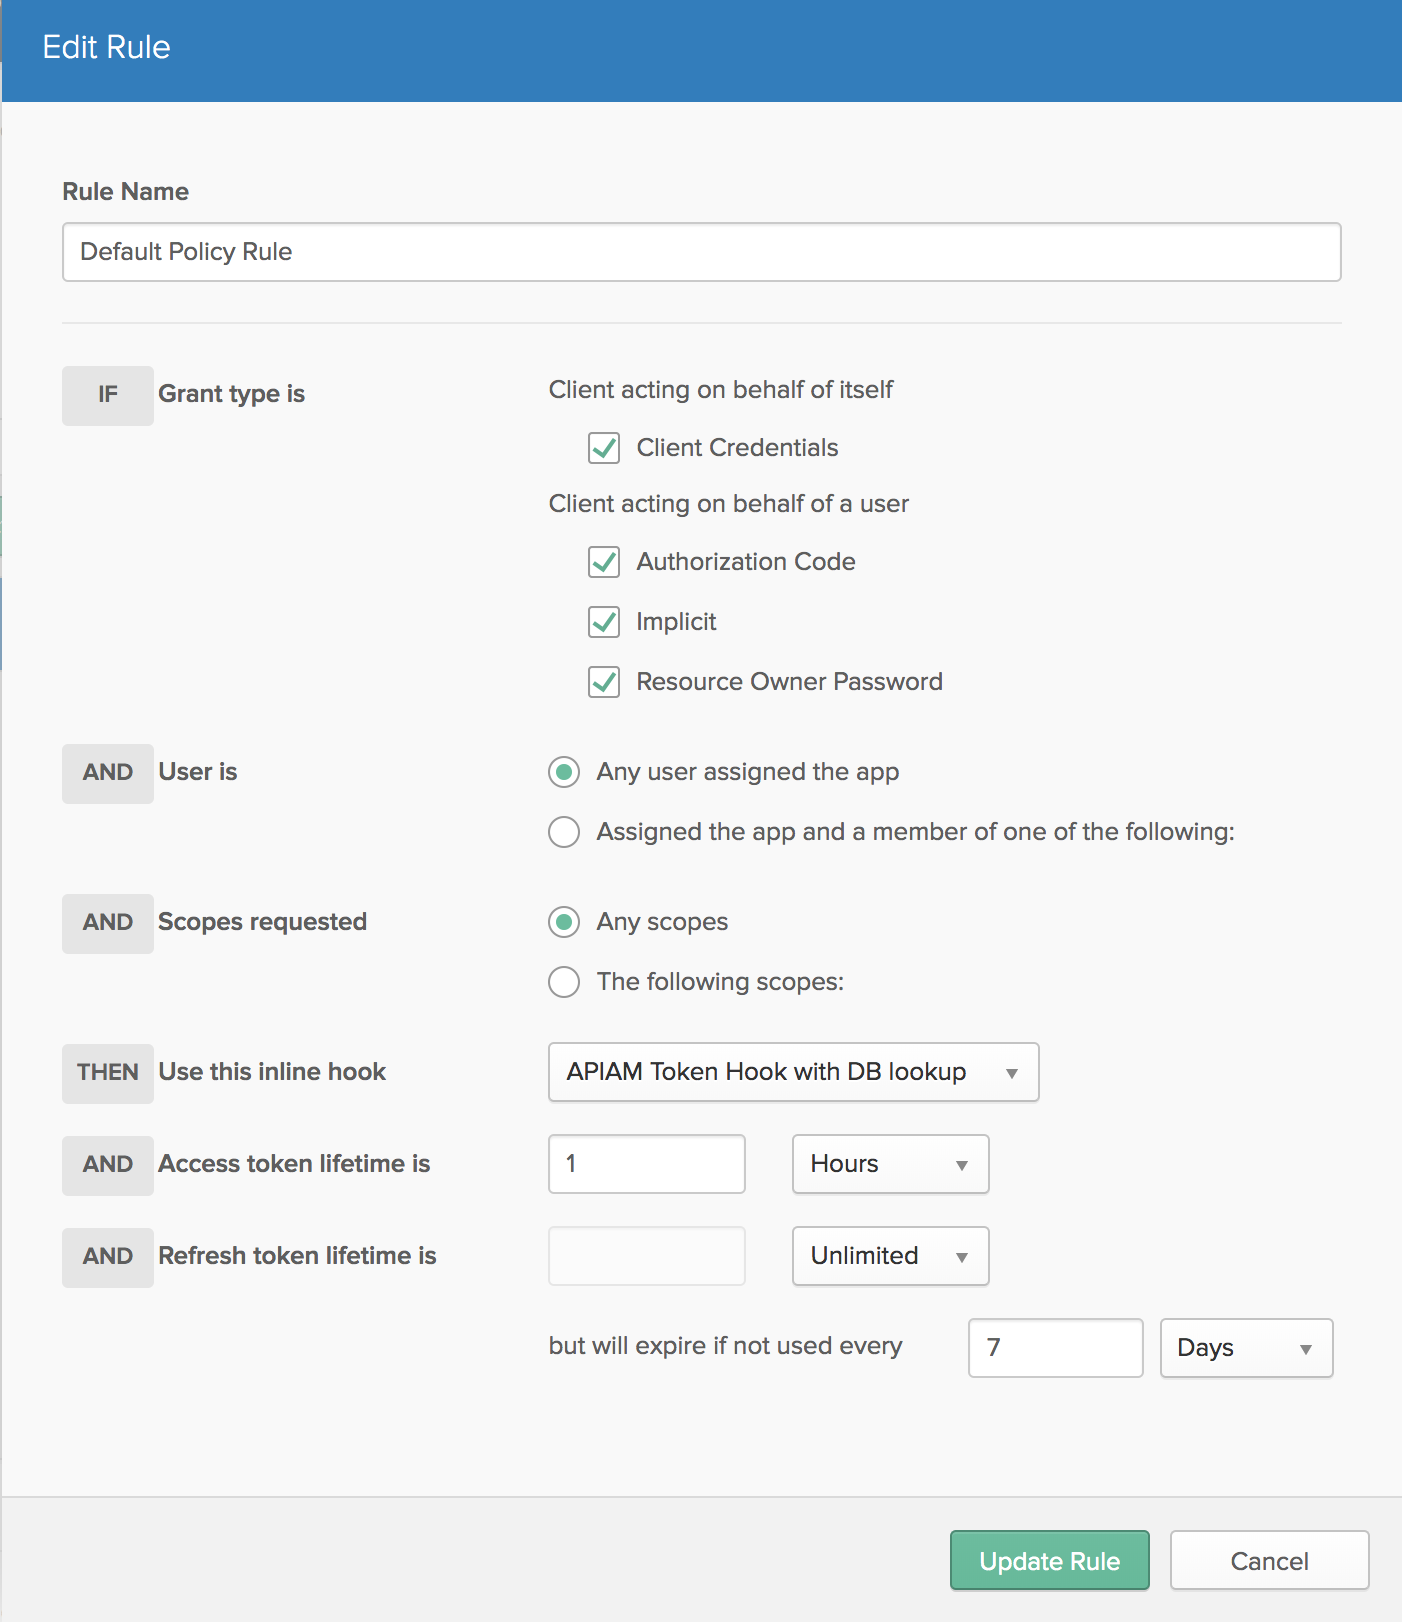
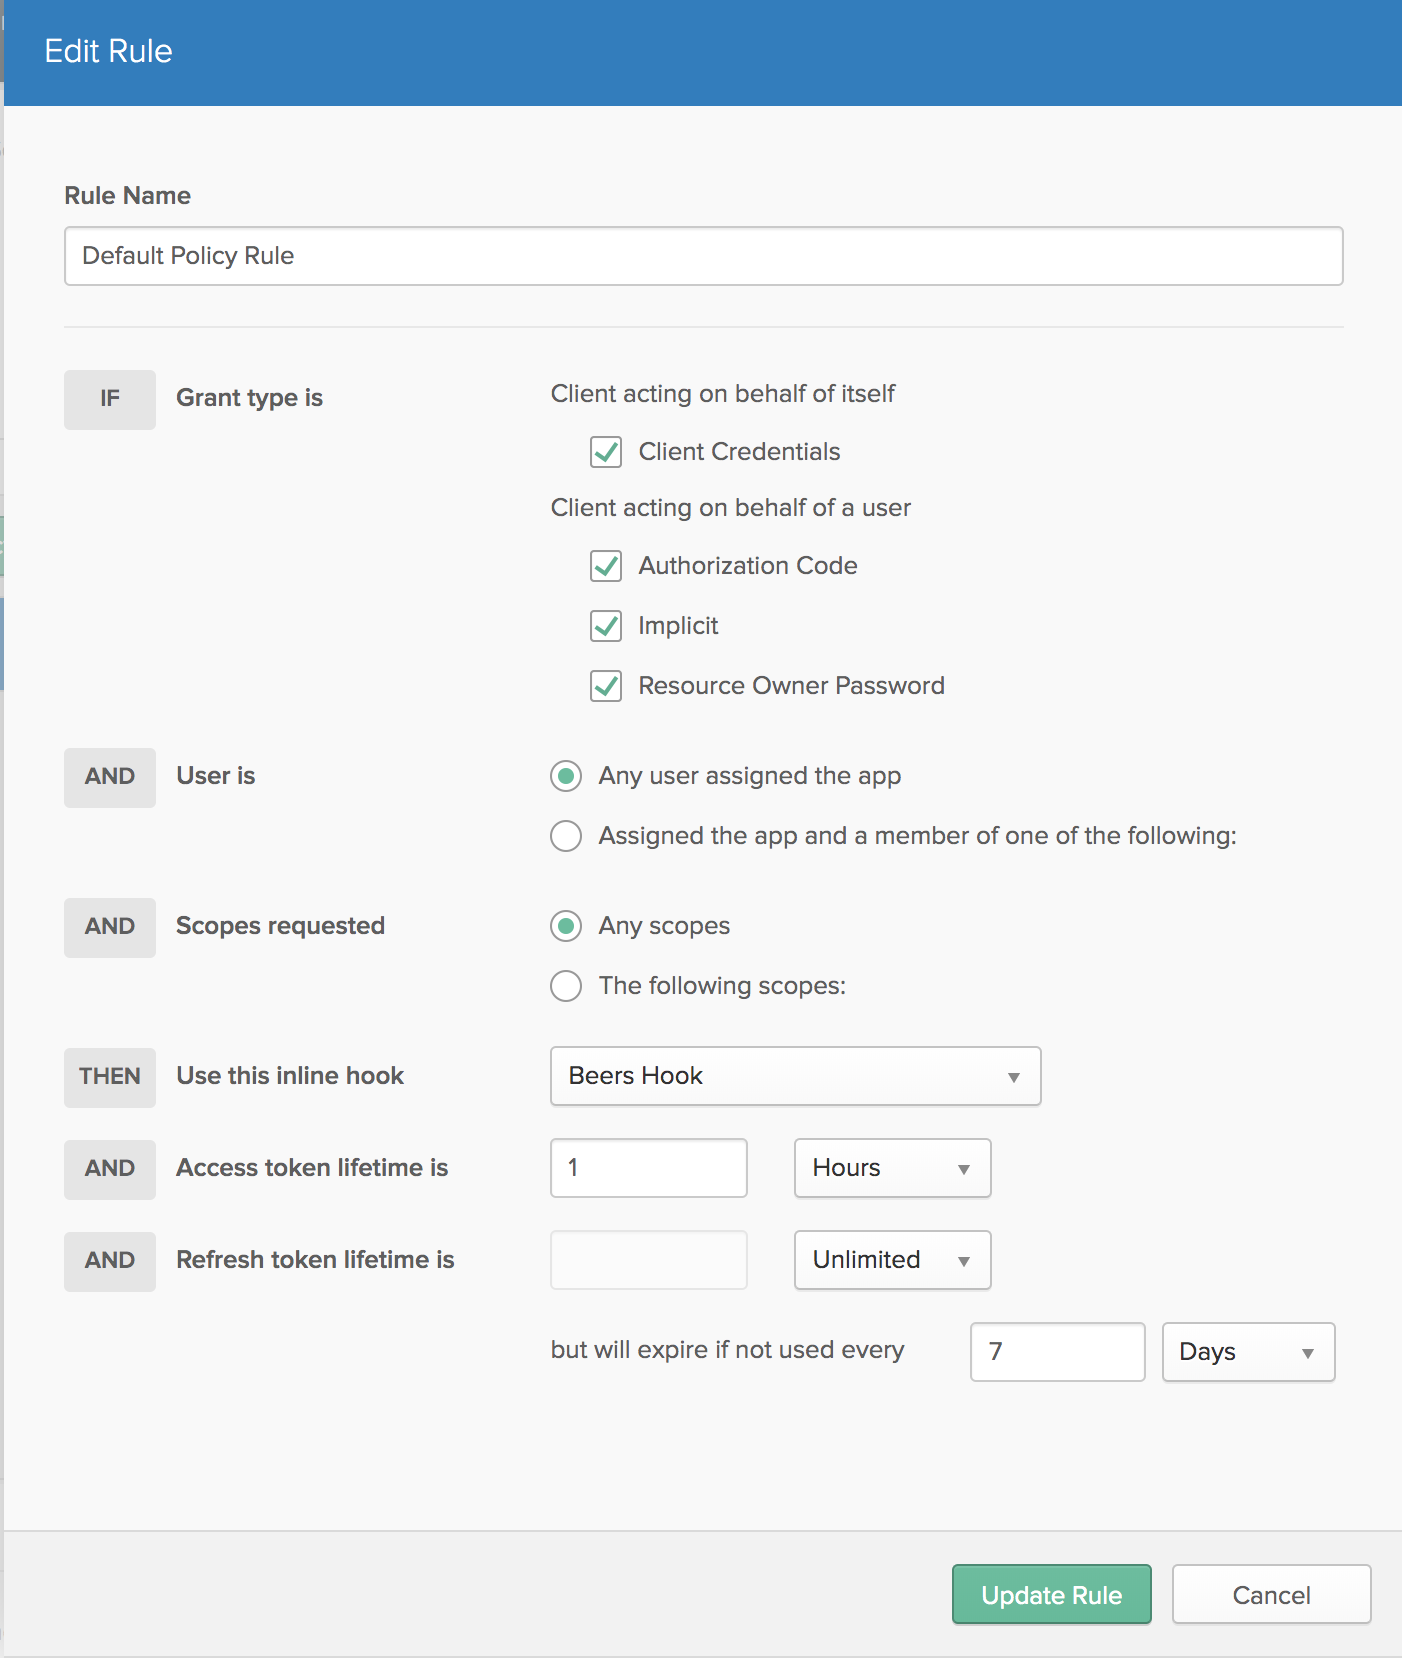
updated hooks post

diff --git a/_source/_posts/2019-12-23-okta-token-hooks.md b/_source/_posts/2019-12-23-okta-token-hooks.md
@@ -1,0 +1,377 @@
+---
+layout: blog_post
+title: "Use Okta Token Hooks to Supercharge OpenID Connect"
+author: dogeared
+description: ""
+tags: [ oauth, security, oidc, spring boot, spring security, webhooks, hooks ]
+tweets:
+- ""
+- ""
+- ""
+image: blog/featured/okta-java-short-skew.jpg
+---
+
+OpenID Connect (OIDC) and OAuth 2.0 are already recognized as a powerful way to incorporate authentication and authorization into modern web applications.
+
+Okta has enhanced the capabilities of these standards by introducing its Inline Hooks feature. There are a number of different types of inline hooks that Okta supports. In this post, I focus on hooks that allow you to patch information into the tokens you get back from okta via OIDC and OAuth.
+
+You'll first set up an OIDC application in Okta and be able to see the types of tokens you get back. Then, you'll configure a Spring Boot API app that allows you to register your favorite beers (this is based on [previous post](https://developer.okta.com/blog/2018/12/03/bootiful-spring-boot-java-vue-typescript) from my friend and colleague, Matt Raible, who is really into beers). This Spring Boot app also has API endpoints to register token hooks with Okta and to service token patch requests from Okta. Finally, you'll see that your favorite beers are now included in the payload of a token thanks to the hooks you registered.
+
+To get ready for the hands-on parts of this post, set yourself up with the following:
+
+* Create a free Okta developer org at [https://developer.okta.com/signup/](https://developer.okta.com/signup/)
+* Install [HTTPie](https://httpie.org), a modern curl replacement for interacting with API endpoints later
+* Install [ngrok](https://ngrok.com/), an app that allows public access to a locally running server
+* Optional: Create a free Heroku account at [https://signup.heroku.com/](https://signup.heroku.com/)
+
+To start, let's take a step back and introduce OIDC and OAuth.
+
+## Three Minute Overview of OpenID Connect and OAuth 2.0
+
+In the beginning there were siloed web sites that didn't talk to each other, and it was sad.
+
+Sites like Yelp started wanting access to the contact information you had in your Google Contacts. So, Yelp naturally collected your Google username and password so that it could access your contacts. You gave Yelp your permission, so this was all good, Yes? No! With your username and password, Yelp could access your email, your docs - everything you had in Google - not just your contacts. And, worse, Yelp had to store your password in a way that it could use it in plaintext and there was no standard way to revoke your consent to Yelp to access your Google account.
+
+We needed an authorization framework that would allow you to grant access to certain information without you giving up your password. Cue OAuth.
+
+Three revisions later, we're at OAuth 2.0 (there was 1.0 and 1.0a before it) and all's right with the world. Now, an application like Yelp (a `Client Application`) can request an `Access Token` from a service like Google (an `Authorization Server`). You (the `Resource Owner`) log into Google with your credentials and give your `Consent` to Yelp to access your contacts (and only your contacts). `Access Token` in hand, Yelp makes a request of the Google Contacts API (the `Resource Server`) and gets your contacts. Yelp never sees your password and never has access to anything more than you've consented to. And, you can withdraw your consent at any time.
+
+In this new world of consent and authorization, only one thing was missing: identity. Cue OpenID Connect. OIDC is a thin layer on top of OAuth 2.0 that introduces a new type of token: the Identity Token. Encoded within these cryptographically signed tokens in [JWT](https://developer.okta.com/docs/api/resources/oidc#access-token) format, is information about the authenticated user. This opened the door to a new level of interoperability and Single SignOn.
+
+OAuth (and by extension OIDC) use a number of defined `Flows` to manage the interactions between the `Client App`, the `Authorization Server` and the `Resource Server`. In this post, you'll focus on the `Authorization Code Flow`. This flow is meant to be kicked off from your browser and goes like this:
+
+1. Yelp wants access to your contacts. It presents a button to link your Google Contacts.
+2. When you click the button, you're redirected to Google where you login with your username and password (if you're not already logged in).
+3. Google shows you a screen telling you that Yelp would like read-only access to your contacts.
+4. Once you give your consent, Google redirects back to Yelp, via your browser, with a temporary code (called an authorization code)
+5. Using this code, Yelp contacts Google to trade it for an Access Token
+6. Google validates the code and if all checks out, issues an Access Token with limited capabilities (read-only access to your contacts) to Yelp
+7. Yelp then presents the Access Token to the Google Contacts API
+8. Google Contacts API validates the token and, if the request matches the capabilities identified by the token, returns your contact list to Yelp
+
+## Set Up Your Okta Org for OIDC & OAuth 2.0
+
+In this section, you're going to create an OpenID Connect application in Okta. Then, you'll exercise the OIDC application using a little OIDC playground app I created on Heroku. No coding needed! (That will come later).
+
+After logging in to your Okta org, navigate to **Applications** from the top level menu. Click: **Add Application**. Click the third box over labeled **Web** and click **Next**.
+
+Enter the following:
+
+| field | value |
+|-------|-------|
+| Name  | OIDC Beers |
+| Login redirect URIs | https://okta-oidc-fun.herokuapp.com/flow_result |
+| Grant type allowed | Check *Authorization Code* and *Implicit (Hybrid)* |
+
+{% img blog/token-hooks/oidc_settings.png alt:"oidc settings" width:"800" %}{: .center-image }
+
+Click **Done**.
+
+**Note:** Current best guidance for OAuth 2.0 (as outlined [here](https://tools.ietf.org/html/draft-ietf-oauth-browser-based-apps-04)) is to NOT use the implicit flow. We are using it here for demonstration purposes.
+
+Scroll down and copy the `Client ID` and `Client secret` values. You'll need these later.
+
+### OIDC Fun on Heroku
+
+I created an OIDC playground application to be able to exercise the different flows available. This will come in handy to see the OIDC app you just created in action.
+
+Navigate over to [https://okta-oidc-fun.herokuapp.com](https://okta-oidc-fun.herokuapp.com)
+
+You'll see a page with a form and some toggle buttons. Initially, it's set to point to my Okta org. But, you can change it to your Okta org by filling in the form.
+
+Update the values according to the following:
+
+| field | value |
+|-------|-------|
+| Okta Org | the fully qualified domain for your okta org (NO https://) |
+| Authorization Server ID | default |
+| OIDC Client ID | The Client ID you copied when you created the OIDC app |
+| response_type | DESELECT *code*, Select *id_token* and *token* |
+
+{% img blog/token-hooks/oidc_playground.png alt:"oidc playground" width:"800" %}{: .center-image }
+
+Scroll down and click the link. A new tab will launch where you can authenticate to your Okta org. Then, you'll be redirected back where you'll see an ID Token and an Access Token. Click *Validate ID Token* and you'll see the payload encoded into that token.
+
+You've now seen the kinds of tokens your OpenID Connect app in Okta can generate.
+
+In the rest of this post, you'll see how you can create a hook that will add custom claims to the ID Token. This happens in-flight, but before the ID Token is signed. This means that you can still safely validate the cryptographic signature.
+
+Leave this browser tab open. You'll make use of the access token in just a little bit.
+
+## Set Up the Favorite Beers API Application
+
+Go and grab the source code for this post from [GitHub](https://github.com/oktadeveloper/okta-token-hooks-example).
+
+This is a Spring Boot application which uses the Okta Spring Boot Starter for easy integration with OpenID Connect and OAuth 2.0.
+
+It uses the [H2](https://www.h2database.com/html/main.html) in memory database and [Spring Data JPA](https://spring.io/projects/spring-data-jpa) for easy object-relational mapping. It also uses the excellent [Lombok](https://projectlombok.org/) project because - Who likes to write getters and setters?
+
+The application has these features:
+
+* API to indicate your favorite beers
+* API to handle an incoming hook request from Okta and return an id token patch response
+
+In the *src/main/resources* folder, you'll see the `application.sample.yml` file. Copy that over to `application.yml` in the same folder.
+
+You'll need to customize the `application.yml` file with the values you've collected from the set up we did above. This includes the *issuer*, *clientId* and *clientSecret*. You can also optionally change the `id` and `password` values to anything you want. These values are used later with the hooks api. Once you have these set, you can run the app like so:
+
+```bash
+./mvnw spring-boot:run
+```
+
+**Note:** You'll need Java 11 or higher to run this example. If you're on Mac, I recommend [SDKMAN](https://sdkman.io/) to manage java versions.
+
+After the app starts, you'll see output to indicate that the H2 in-memory database has been primed with some beers:
+
+```
+Beer(id=1, name=Kentucky Brunch Brand Stout)
+Beer(id=2, name=Marshmallow Handjee)
+Beer(id=3, name=Barrel-Aged Abraxas)
+Beer(id=4, name=Hunahpu's Imperial Stout)
+Beer(id=5, name=King Julius)
+Beer(id=6, name=Heady Topper)
+Beer(id=7, name=Budweiser)
+Beer(id=8, name=Coors Light)
+Beer(id=9, name=PBR)
+```
+
+### Exercise the Beers Application
+
+You're now going to use the Beers API to add your favorite beer. But, all the api endpoints are protected with OIDC. This is where your access token from earlier comes in. 
+
+Execute the following command to add a beer to your list of favs:
+
+```bash
+http \
+localhost:8080/api/add-beer \
+name=Heineken \
+Authorization:"Bearer <your access token>"
+```
+
+If all goes well, you'll get a response like this:
+
+```json
+HTTP/1.1 200
+...
+
+[
+    { "id": 10, "name": "Heineken" }
+]
+```
+
+The app has both created a new beer entry and added it to your list of favorites.
+
+**NOTE:** Since the application uses an in-memory database, if you restart the app, you'll need to re-add your favorite beers using this api.
+
+Next up, you'll setup the inline hook that will add the `beers` claim to your ID Token on the fly.
+
+## Get Your Favorite Beers Patched into Your ID Token
+
+In order to make use of your hooks processing api, Okta needs to be able to make calls to it over the public Internet. In "real life", you'd deploy your application somewhere and set it up so that Okta could interact with it.
+
+For demonstration purposes, you're going to use the [ngrok]() service, which issues you a unique, publicly addressable domain that's connected to your locally running Spring Boot application.
+
+Start by issuing this command in a separate terminal tab:
+
+```bash
+ngrok http 8080
+```
+
+You'll see output like this:
+
+```bash
+ngrok by @inconshreveable                                                                                                                                                                     (Ctrl+C to quit)
+
+Session Status                online
+Session Expires               6 hours, 30 minutes
+Version                       2.3.29
+Region                        United States (us)
+Web Interface                 http://127.0.0.1:4040
+Forwarding                    http://e3fc9a95.ngrok.io -> http://localhost:8080
+Forwarding                    https://e3fc9a95.ngrok.io -> http://localhost:8080
+
+Connections                   ttl     opn     rt1     rt5     p50     p90
+                              0       0       0.00    0.00    0.00    0.00
+```
+
+Copy the https link (`https://e3fc9a95.ngrok.io` in my case) as we'll need it soon.
+
+### Setup Okta Inline Hooks
+
+The publicly accessible (thanks to ngrok) Spring Boot app you have running is all setup to receive hook requests from Okta. But, your Okta org isn't ready for it yet.
+
+First, you need to register the inline token hook with Okta.
+
+From you Okta org's admin console, navigate to: **Workflow > Inline Hooks**. Click: **Add Inline Hook > Token**.
+
+Enter the following into the form and then click **Save**:
+
+| Field | Value |
+|-------|-------|
+| Name  | Beers Hook |
+| URL   | {your ngrok url}/api/hooks/apiam |
+| Authentication field | Authorization |
+| Authentication secret | Basic bWVAZXhhbXBsZS5jb206d2hhdGV2cw== |
+
+The `Authentication field` is the header that Okta will use to provide authentication to your hook. The `Authentication secret` is the value that will be sent in the Authorization header.
+
+**Note:** The Authentication secret value is found in the `application.yml` file. If you changed the hooks id and password values, you'll need to recompute the basic auth string and have that value reflected in the settings above.
+
+{% img blog/token-hooks/okta-hooks-config.png alt:"token hooks config" width:"800" %}{: .center-image }
+
+The hook is now created in your okta org.
+
+The Spring Boot application has basic authentication enabled on the hooks endpoints via `WebSecurityConfiguration.java`:
+
+```java
+@EnableWebSecurity
+public class WebSecurityConfiguration {
+
+
+    @Value("#{ @environment['okta.hooks.id'] }")
+    private String hooksId;
+
+    @Value("#{ @environment['okta.hooks.password'] }")
+    private String hooksPassword;
+
+    @Autowired
+    public void configureGlobal(AuthenticationManagerBuilder auth) throws Exception {
+        auth.inMemoryAuthentication()
+            .withUser(hooksId).password(passwordEncoder().encode(hooksPassword))
+            .authorities("ROLE_USER");
+    }
+
+    @Bean
+    public PasswordEncoder passwordEncoder() {
+        return new BCryptPasswordEncoder();
+    }
+
+    @Configuration
+    @Order(1)
+    public static class HooksConfiguration extends WebSecurityConfigurerAdapter {
+
+        @Override
+        public void configure(HttpSecurity http) throws Exception {
+            http
+                .antMatcher("/api/hooks/**")
+                .csrf().disable()
+                .authorizeRequests()
+                .anyRequest().authenticated()
+                .and()
+                .httpBasic();
+        }
+    }
+
+    @Configuration
+    @Order(2)
+    public static class GlobalConfig extends WebSecurityConfigurerAdapter {
+
+        @Override
+        public  void configure(HttpSecurity http) throws Exception {
+            http.authorizeRequests()
+                .anyRequest().authenticated()
+                .and()
+                .oauth2ResourceServer().jwt();
+        }
+    }
+}
+```
+
+Basic authentication is used for the `/api/hooks/**` endpoint and OAuth 2.0 is used for everything else.
+
+### Anatomy of a Token Transformation Inline Hook
+
+Before we configure your Authorization Server to make use of the hook, let's take a look at the heart of the code that enables the ID Token to be patched with a list of your favorite beers.
+
+Here's method from the `HooksController`:
+
+```java
+@PostMapping("/apiam")
+public TokenHookResponse apiam(@RequestBody TokenHookRequest request) {
+    String login = request.getData().getContext().getUser().getProfile().getLogin();
+    Person person = personRepository.findByEmail(login);
+
+    TokenHookResponse response = new TokenHookResponse();
+    if (person != null) {
+        IDTokenPatchResponse idTokenPatchResponse = new IDTokenPatchResponse();
+        idTokenPatchResponse.getValue().add(
+            new TokenPatchResponse.Value(
+                "add", "/claims/beers", transformBeers(person.getFavoriteBeers())
+            )
+        );
+        response.getCommands().add(idTokenPatchResponse);
+    }
+    return response;
+}
+```
+
+The `TokenHookRequest` class makes use of Lombok and some default initialization to ensure that you won't get a `NullPointerException`.
+
+There's a lot to the token hook request that Okta sends into the controller. I've modeled out only what we need by making liberal use of the `@JsonIgnoreProperties(ignoreUnknown = true)` annotation. You can see an example of the complete request json [here](https://developer.okta.com/docs/reference/token-hook/#sample-json-payload-of-a-request).
+
+Using the `login` value from the request, the code does a database lookup to retrieve the `Person` associated with that login. When you added to your list of favorite beers earlier, a `Person` record was created for you.
+
+The code then sets up a `TokenHookResponse` which will (potentially) have a list of commands to patch either (or both) the ID Token and Access Token. In this example, we are only going to patch the ID Token.
+
+The critical line is this one:
+
+```java
+new TokenPatchResponse.Value("add", "/claims/beers", transformBeers(p.getFavoriteBeers()))
+```
+
+Here's where a list of beer names is added to the response attached to the `beers` claim. The JSON response looks like this:
+
+```javascript
+{
+  "commands": [
+    {
+      "type": "com.okta.identity.patch",
+      "value": [
+        {
+          "op": "add",
+          "path": "/claims/beers",
+          "value": ["Heineken"]
+        }
+      ]
+    }
+  ]
+}
+```
+
+The last step to tie this all together, is to configure your Authorization Server to user the hook.
+
+### Add Beer to your ID Token
+
+Click **API > Authorization Servers** from the top level menu. Click **default**. Click **Access Policies**. Scroll down and click the pencil icon next to the `Default Policy Rule`.
+
+Select **Beers Hook** from the `Use this inline hook` menu.
+
+{% img blog/token-hooks/auth_server_rule.png alt:"auth server rule" width:"800" %}{: .center-image }
+
+Click **Update Rule**.
+
+Open up a browser tab and navigate to `localhost:4040`. This is the ngrok monitoring interface.
+
+Now, you can return to the OIDC playground from before. Close the results tab with the ID Token and Access Token. Click the link once again from the playground page. Click **Validate ID Token** and et voilà - you'll see the `beers` claim with any beers you've added to your favorites.
+
+{% img blog/token-hooks/altered_id_token.png alt:"id tokens" width:"800" %}{: .center-image }
+
+Switch back to the ngrok monitoring tab and you can see the request from okta and the response from the Spring Boot app.
+
+{% img blog/token-hooks/hooks_request.png alt:"id tokens" width:"800" %}{: .center-image }
+{% img blog/token-hooks/hooks_response.png alt:"id tokens" width:"800" %}{: .center-image }
+
+## Learn More About Secure Single Sign-on, OAuth 2.0, and Spring Boot
+
+The Okta Spring Boot Starter enables you to integrate your Spring Boot apps with Okta with just a few lines of code and three configuration properties.
+
+Along with our Spring Boot Starter, Okta's OpenID Connect service not only conforms to the standard, but gives you a sophisticated Single Sign-On experience where the same user can access many different OIDC applications, each with their own set of requirements and configuration. Remember: OIDC rides on top of OAuth 2.0 - it's not standalone. Whereas OAuth focuses exclusively on authorization, OIDC explicitly adds identity and authentication concerns.
+
+If you'd like to learn more about OAuth and Spring Boot you might be interested in these other posts:
+
+* [Secure Server-to-Server Communication with Spring Boot and OAuth 2.0](https://developer.okta.com/blog/2018/04/02/client-creds-with-spring-boot)
+* [OAuth 2.0 for Native and Mobile Apps ](https://developer.okta.com/blog/2018/12/13/oauth-2-for-native-and-mobile-apps)
+* [Is the OAuth 2.0 Implicit Flow Dead?](https://developer.okta.com/blog/2019/05/01/is-the-oauth-implicit-flow-dead)
+
+
+Like what you learned today? Follow us on [Twitter](https://twitter.com/oktadev), and subscribe to our [YouTube channel](https://www.youtube.com/channel/UC5AMiWqFVFxF1q9Ya1FuZ_Q) for more awesome content!
